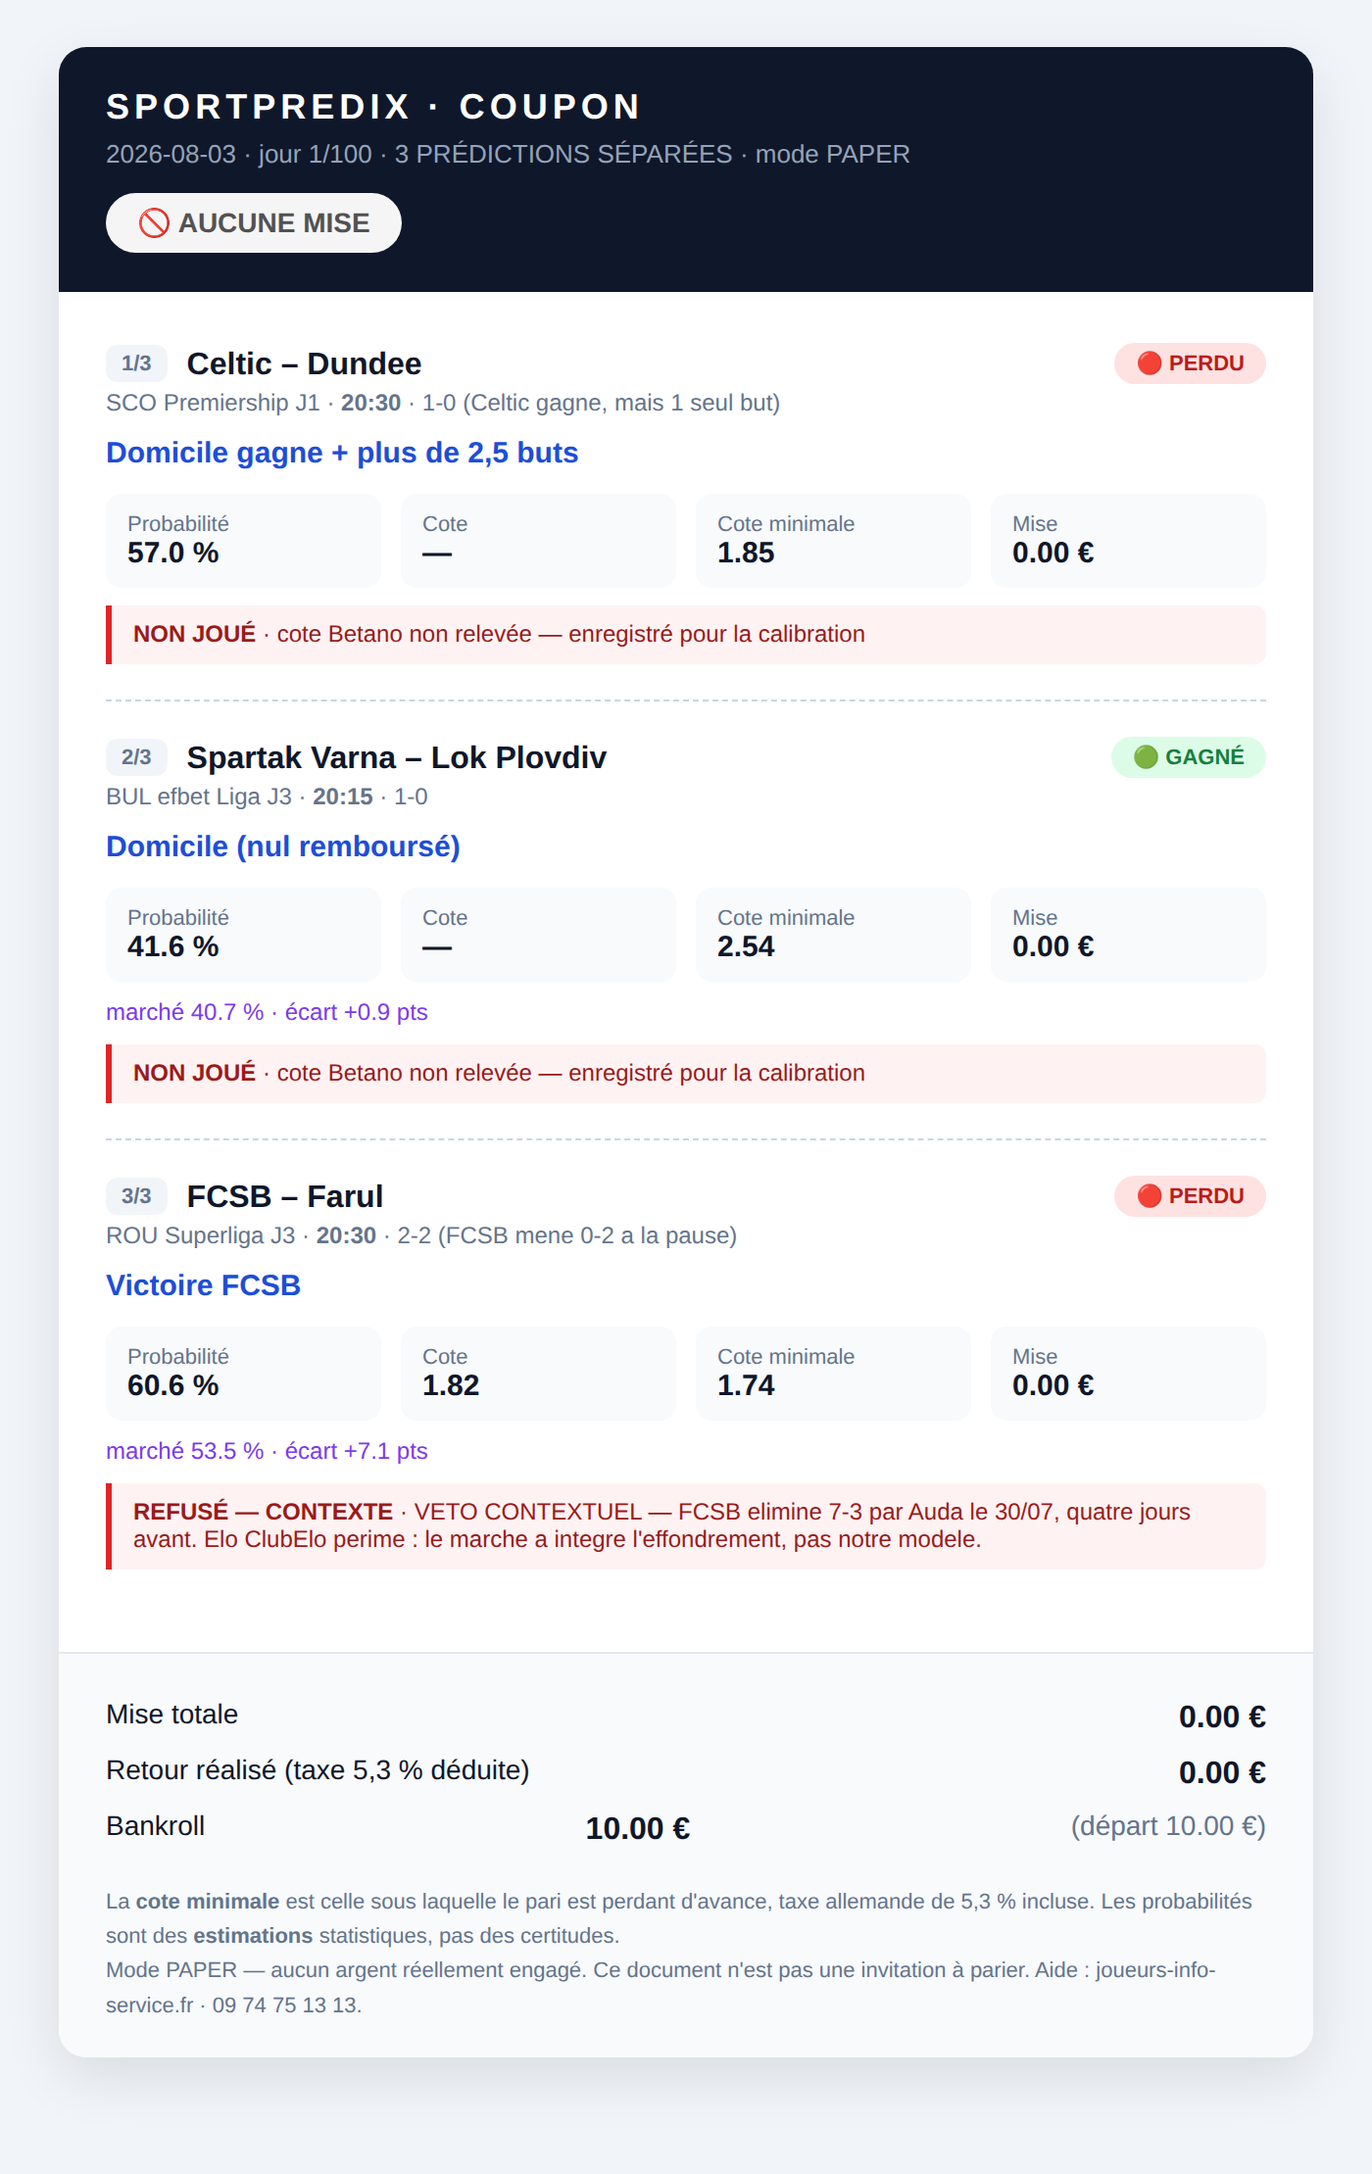
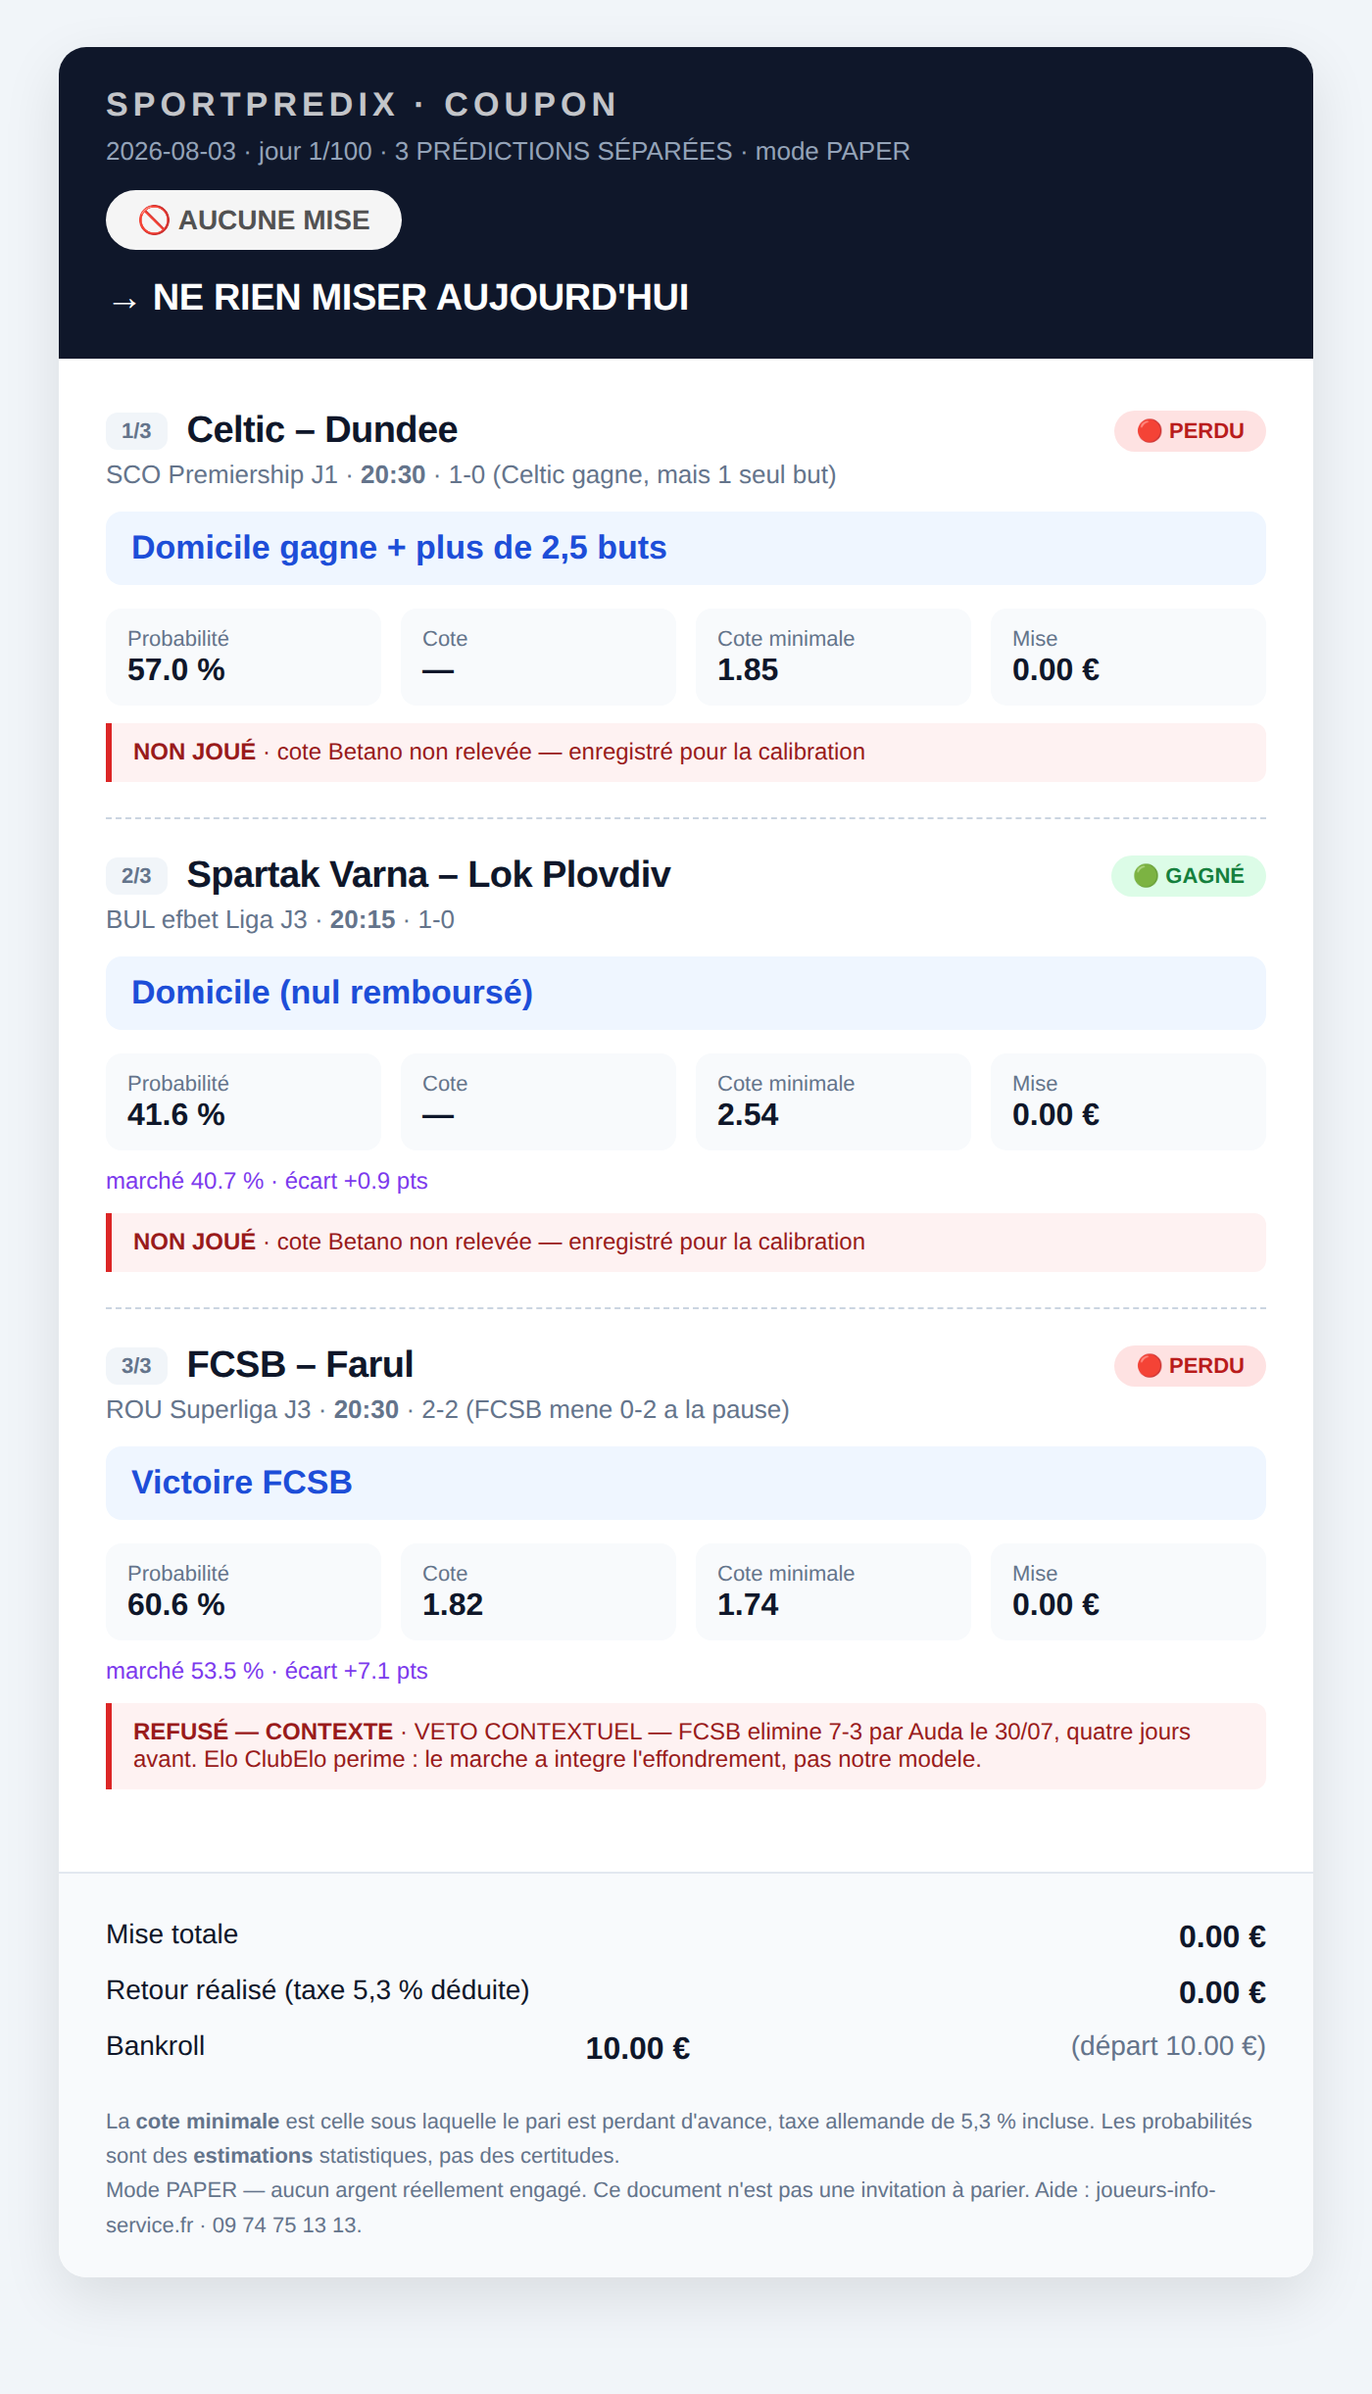
La routine envoie le coupon et rend compte ici
Deux defauts : la routine ecrivait le coupon sur disque et le committait
sans jamais l'envoyer, et le coupon ne repondait pas immediatement a la
seule question qui compte pour le lecteur.

scripts/coupon.py -- ligne d'ACTION en tete du ticket, avant tout le
reste : « NE RIEN MISER AUJOURD'HUI », « MISER 0,30 EUR au total sur
1 pari », « ENCAISSE 0,54 EUR », « PERDU 0,24 EUR ». Le statut seul ne
suffisait pas : savoir qu'un coupon est « EN ATTENTE » ne dit pas quoi
faire. Lisibilite renforcee au passage -- nom du match de 16 a 19 px,
marche parie sur fond colore au lieu d'une simple ligne de texte,
competition et heure plus contrastees.

docs/rendez-vous.md -- ENVOI OBLIGATOIRE ajoute aux deux routines, avec
la raison ecrite noir sur blanc : l'utilisateur ne voit PAS les fichiers
du depot. Le coupon PNG part par SendUserFile en display render, MEME
quand aucune mise n'est possible -- un coupon « ne rien miser » est une
information, et son absence ressemble a une panne.

Ajoute aussi une derniere etape explicite : REPONDRE DANS LA
CONVERSATION, avec la structure attendue (action en clair, un bloc par
prediction, les lignes ecartees avec leur motif, bankroll avant/apres).
Le livrable est la reponse, pas le commit.

Claude-Session: https://claude.ai/code/session_01CEJDhX76Xa2BUgXuhgFFGV

diff --git a/data/coupons/exemple_simple_gagne.html b/data/coupons/exemple_simple_gagne.html
@@ -6,26 +6,29 @@
   .ticket { max-width:640px; margin:0 auto; background:#fff; border-radius:14px;
             box-shadow:0 10px 30px rgba(0,0,0,.10); overflow:hidden; }
   .tete { background:#0f172a; color:#fff; padding:20px 24px; }
-  .tete h1 { margin:0; font-size:18px; letter-spacing:.14em; }
+  .tete h1 { margin:0; font-size:17px; letter-spacing:.15em; opacity:.75; }
   .tete .meta { margin-top:6px; font-size:13px; color:#94a3b8; }
   .statut { display:inline-block; margin-top:12px; padding:7px 16px;
             border-radius:999px; font-weight:700; font-size:14px;
             color:#15803d; background:#dcfce7; }
+  .action { margin-top:14px; font-size:19px; font-weight:750;
+            letter-spacing:-.01em; color:#fff; }
   .corps { padding:8px 24px 24px; }
   .sel { border-bottom:1px dashed #cbd5e1; padding:18px 0; }
   .sel:last-child { border-bottom:none; }
   .sel-tete { display:flex; align-items:center; gap:10px; flex-wrap:wrap; }
   .num { font-size:11px; font-weight:700; color:#64748b; background:#f1f5f9;
          padding:3px 8px; border-radius:6px; }
-  .match { font-weight:700; font-size:16px; flex:1; }
+  .match { font-weight:750; font-size:19px; flex:1; letter-spacing:-.015em; }
   .badge { padding:4px 11px; border-radius:999px; font-size:11px; font-weight:700; }
-  .compet { font-size:12px; color:#64748b; margin-top:3px; }
-  .pari { margin-top:10px; font-size:15px; font-weight:600; color:#1d4ed8; }
+  .compet { font-size:13px; color:#64748b; margin-top:4px; }
+  .pari { margin-top:11px; font-size:17px; font-weight:680; color:#1d4ed8;
+         padding:9px 13px; background:#eff6ff; border-radius:8px; }
   .chiffres { display:grid; grid-template-columns:repeat(auto-fit,minmax(110px,1fr));
               gap:10px; margin-top:12px; }
   .chiffres div { background:#f8fafc; border-radius:8px; padding:9px 11px; }
   .chiffres span { display:block; font-size:11px; color:#64748b; }
-  .chiffres b { font-size:15px; }
+  .chiffres b { font-size:16px; }
   .marche { margin-top:9px; font-size:12px; color:#7c3aed; }
   .refus { margin-top:9px; font-size:12px; background:#fef2f2; color:#991b1b;
            border-left:3px solid #dc2626; padding:8px 11px; border-radius:0 6px 6px 0; }
@@ -43,6 +46,7 @@
   .avis { margin-top:14px; font-size:11px; color:#64748b; line-height:1.6; }
   @media (prefers-color-scheme: dark) {
     body { background:#0b1120; color:#e2e8f0; }
+    .pari { background:#172554; color:#93c5fd; }
     .ticket { background:#111827; }
     .chiffres div, .pied { background:#1e293b; }
     .num { background:#1e293b; color:#94a3b8; }
@@ -58,6 +62,7 @@
     <h1>SPORTPREDIX · COUPON</h1>
     <div class="meta">2026-09-14 · jour 43/100 · SIMPLE · mode PAPER</div>
     <div class="statut">🟢 GAGNÉ</div>
+    <div class="action">→ ENCAISSÉ 0.54 €  (mise 0.28 €)</div>
   </div>
   <div class="corps">
     
@@ -68,6 +73,7 @@
         <span class="badge" style="color:#15803d;background:#dcfce7">🟢 GAGNÉ</span>
       </div>
       <div class="compet">DEN Superliga J8
+        
         · 2-1</div>
       <div class="pari">Odense (nul remboursé)</div>
       <div class="chiffres">

diff --git a/data/coupons/coupon_2026-08-03.html b/data/coupons/coupon_2026-08-03.html
@@ -6,26 +6,29 @@
   .ticket { max-width:640px; margin:0 auto; background:#fff; border-radius:14px;
             box-shadow:0 10px 30px rgba(0,0,0,.10); overflow:hidden; }
   .tete { background:#0f172a; color:#fff; padding:20px 24px; }
-  .tete h1 { margin:0; font-size:18px; letter-spacing:.14em; }
+  .tete h1 { margin:0; font-size:17px; letter-spacing:.15em; opacity:.75; }
   .tete .meta { margin-top:6px; font-size:13px; color:#94a3b8; }
   .statut { display:inline-block; margin-top:12px; padding:7px 16px;
             border-radius:999px; font-weight:700; font-size:14px;
             color:#525252; background:#f5f5f5; }
+  .action { margin-top:14px; font-size:19px; font-weight:750;
+            letter-spacing:-.01em; color:#fff; }
   .corps { padding:8px 24px 24px; }
   .sel { border-bottom:1px dashed #cbd5e1; padding:18px 0; }
   .sel:last-child { border-bottom:none; }
   .sel-tete { display:flex; align-items:center; gap:10px; flex-wrap:wrap; }
   .num { font-size:11px; font-weight:700; color:#64748b; background:#f1f5f9;
          padding:3px 8px; border-radius:6px; }
-  .match { font-weight:700; font-size:16px; flex:1; }
+  .match { font-weight:750; font-size:19px; flex:1; letter-spacing:-.015em; }
   .badge { padding:4px 11px; border-radius:999px; font-size:11px; font-weight:700; }
-  .compet { font-size:12px; color:#64748b; margin-top:3px; }
-  .pari { margin-top:10px; font-size:15px; font-weight:600; color:#1d4ed8; }
+  .compet { font-size:13px; color:#64748b; margin-top:4px; }
+  .pari { margin-top:11px; font-size:17px; font-weight:680; color:#1d4ed8;
+         padding:9px 13px; background:#eff6ff; border-radius:8px; }
   .chiffres { display:grid; grid-template-columns:repeat(auto-fit,minmax(110px,1fr));
               gap:10px; margin-top:12px; }
   .chiffres div { background:#f8fafc; border-radius:8px; padding:9px 11px; }
   .chiffres span { display:block; font-size:11px; color:#64748b; }
-  .chiffres b { font-size:15px; }
+  .chiffres b { font-size:16px; }
   .marche { margin-top:9px; font-size:12px; color:#7c3aed; }
   .refus { margin-top:9px; font-size:12px; background:#fef2f2; color:#991b1b;
            border-left:3px solid #dc2626; padding:8px 11px; border-radius:0 6px 6px 0; }
@@ -43,6 +46,7 @@
   .avis { margin-top:14px; font-size:11px; color:#64748b; line-height:1.6; }
   @media (prefers-color-scheme: dark) {
     body { background:#0b1120; color:#e2e8f0; }
+    .pari { background:#172554; color:#93c5fd; }
     .ticket { background:#111827; }
     .chiffres div, .pied { background:#1e293b; }
     .num { background:#1e293b; color:#94a3b8; }
@@ -58,6 +62,7 @@
     <h1>SPORTPREDIX · COUPON</h1>
     <div class="meta">2026-08-03 · jour 1/100 · 3 PRÉDICTIONS SÉPARÉES · mode PAPER</div>
     <div class="statut">🚫 AUCUNE MISE</div>
+    <div class="action">→ NE RIEN MISER AUJOURD'HUI</div>
   </div>
   <div class="corps">
     

diff --git a/scripts/coupon.py b/scripts/coupon.py
@@ -131,6 +131,21 @@ def rendu(st: dict, sels: list[dict], date: str, combine: bool) -> str:
         else:
             gain = sum(s.get("payout", 0.0) for s in joues)
 
+    # La ligne d'ACTION répond en un coup d'œil à la seule question qui
+    # compte pour le lecteur : est-ce que je mise, et combien ?
+    if not joues:
+        action = "→ NE RIEN MISER AUJOURD'HUI"
+    elif lib == "EN ATTENTE":
+        action = (f"→ MISER {mise:.2f} €" +
+                  (f" sur le combiné" if combine and len(joues) > 1
+                   else f" au total sur {len(joues)} pari(s)"))
+    elif lib == "GAGNÉ":
+        action = f"→ ENCAISSÉ {gain:.2f} €  (mise {mise:.2f} €)"
+    elif lib == "PERDU":
+        action = f"→ PERDU {mise:.2f} €"
+    else:
+        action = f"→ MISE RENDUE {mise:.2f} €"
+
     d0 = datetime.date.fromisoformat(st["start"])
     jour = (datetime.date.fromisoformat(date) - d0).days + 1
 
@@ -142,26 +157,29 @@ def rendu(st: dict, sels: list[dict], date: str, combine: bool) -> str:
   .ticket {{ max-width:640px; margin:0 auto; background:#fff; border-radius:14px;
             box-shadow:0 10px 30px rgba(0,0,0,.10); overflow:hidden; }}
   .tete {{ background:#0f172a; color:#fff; padding:20px 24px; }}
-  .tete h1 {{ margin:0; font-size:18px; letter-spacing:.14em; }}
+  .tete h1 {{ margin:0; font-size:17px; letter-spacing:.15em; opacity:.75; }}
   .tete .meta {{ margin-top:6px; font-size:13px; color:#94a3b8; }}
   .statut {{ display:inline-block; margin-top:12px; padding:7px 16px;
             border-radius:999px; font-weight:700; font-size:14px;
             color:{coul}; background:{fond}; }}
+  .action {{ margin-top:14px; font-size:19px; font-weight:750;
+            letter-spacing:-.01em; color:#fff; }}
   .corps {{ padding:8px 24px 24px; }}
   .sel {{ border-bottom:1px dashed #cbd5e1; padding:18px 0; }}
   .sel:last-child {{ border-bottom:none; }}
   .sel-tete {{ display:flex; align-items:center; gap:10px; flex-wrap:wrap; }}
   .num {{ font-size:11px; font-weight:700; color:#64748b; background:#f1f5f9;
          padding:3px 8px; border-radius:6px; }}
-  .match {{ font-weight:700; font-size:16px; flex:1; }}
+  .match {{ font-weight:750; font-size:19px; flex:1; letter-spacing:-.015em; }}
   .badge {{ padding:4px 11px; border-radius:999px; font-size:11px; font-weight:700; }}
-  .compet {{ font-size:12px; color:#64748b; margin-top:3px; }}
-  .pari {{ margin-top:10px; font-size:15px; font-weight:600; color:#1d4ed8; }}
+  .compet {{ font-size:13px; color:#64748b; margin-top:4px; }}
+  .pari {{ margin-top:11px; font-size:17px; font-weight:680; color:#1d4ed8;
+         padding:9px 13px; background:#eff6ff; border-radius:8px; }}
   .chiffres {{ display:grid; grid-template-columns:repeat(auto-fit,minmax(110px,1fr));
               gap:10px; margin-top:12px; }}
   .chiffres div {{ background:#f8fafc; border-radius:8px; padding:9px 11px; }}
   .chiffres span {{ display:block; font-size:11px; color:#64748b; }}
-  .chiffres b {{ font-size:15px; }}
+  .chiffres b {{ font-size:16px; }}
   .marche {{ margin-top:9px; font-size:12px; color:#7c3aed; }}
   .refus {{ margin-top:9px; font-size:12px; background:#fef2f2; color:#991b1b;
            border-left:3px solid #dc2626; padding:8px 11px; border-radius:0 6px 6px 0; }}
@@ -179,6 +197,7 @@ def rendu(st: dict, sels: list[dict], date: str, combine: bool) -> str:
   .avis {{ margin-top:14px; font-size:11px; color:#64748b; line-height:1.6; }}
   @media (prefers-color-scheme: dark) {{
     body {{ background:#0b1120; color:#e2e8f0; }}
+    .pari {{ background:#172554; color:#93c5fd; }}
     .ticket {{ background:#111827; }}
     .chiffres div, .pied {{ background:#1e293b; }}
     .num {{ background:#1e293b; color:#94a3b8; }}
@@ -194,6 +213,7 @@ def rendu(st: dict, sels: list[dict], date: str, combine: bool) -> str:
     <h1>SPORTPREDIX · COUPON</h1>
     <div class="meta">{date} · jour {jour}/100 · {type_txt} · mode PAPER</div>
     <div class="statut">{ico} {lib}</div>
+    <div class="action">{action}</div>
   </div>
   <div class="corps">
     {''.join(ligne_html(s, i, n) for i, s in enumerate(sels, 1))}

diff --git a/docs/rendez-vous.md b/docs/rendez-vous.md
@@ -71,12 +71,27 @@
    Mise calculée automatiquement : Kelly 1/5, taxe, plafond 5 %, minimum opérateur.
 
 9) COUPON : `PYTHONPATH=src python3 scripts/coupon.py --date <DEMAIN>`
-   Produit le HTML et le PNG partageable. Ne PAS utiliser --combine sauf demande.
+   Produit data/coupons/coupon_<DEMAIN>.html ET .png. Ne PAS utiliser --combine
+   sauf demande explicite.
 
-10) commit + push sur la branche.
-11) Résume : jour N/100, chaque prédiction avec proba, écart au marché, cote, seuil,
-    MISE ou « non jouable » + raison, et la bankroll. ESTIMATIONS, pas des certitudes.
-    Pas d'incitation à miser ; jamais un match déjà commencé.
+10) ⚠ ENVOI OBLIGATOIRE — l'utilisateur ne voit PAS les fichiers du dépôt.
+    SendUserFile({ files:["data/coupons/coupon_<DEMAIN>.png"], display:"render",
+                   status:"proactive",
+                   caption:"Coupon du <DEMAIN> — <ACTION> · bankroll <X,XX> €" })
+    À faire MÊME si aucune mise n'est possible : un coupon « NE RIEN MISER » est
+    une information, et son absence ressemble à une panne.
+
+11) commit + push sur la branche.
+
+12) RÉPONDRE DANS LA CONVERSATION — c'est le livrable, pas le commit. Structure :
+    • titre : jour N/100, date, et l'ACTION en clair (miser X € / ne rien miser)
+    • un bloc par prédiction : match, heure locale, marché, probabilité, cote,
+      cote minimale, écart au marché, MISE ou raison du refus
+    • les lignes ÉCARTÉES avec leur motif (fixture, veto contexte, seuil)
+    • bankroll avant → après
+    • ce qui a été appris ou constaté d'inhabituel
+    ESTIMATIONS, pas des certitudes. Pas d'incitation à miser ; jamais un match
+    déjà commencé. Si rien n'est jouable, le dire franchement en une phrase.
 ```
 
 ## ⚖ 08h00 — vérification des résultats de la veille
@@ -101,12 +116,23 @@
    au format ```rule``` machine quand c'est une règle dure/douce. Vérifie avec
    `python3 scripts/lessons_rules.py` qu'elle n'est pas orpheline.
 6) COUPON : `PYTHONPATH=src python3 scripts/coupon.py --date <date des matchs réglés>`
-   MÊME commande qu'à 20h : le statut du coupon passe de ⏳ à 🟢/🔴 avec les scores,
-   HTML et PNG régénérés au même emplacement.
-7) `PYTHONPATH=src python3 scripts/protocol.py report` — commit + push.
-8) Résume : chaque résultat 🟢/🔴/⚪ avec le score, la bankroll, le bilan jour N/100,
-   la CALIBRATION (écart entre probabilité annoncée et réussite réelle) et la section
-   FACE AU MARCHÉ (sur les désaccords ≥3 points, le modèle a-t-il eu raison ?).
+   MÊME commande qu'à 20h : le statut passe de ⏳ à 🟢/🔴 avec les scores, HTML et
+   PNG régénérés au même emplacement.
+
+7) ⚠ ENVOI OBLIGATOIRE du coupon réglé :
+   SendUserFile({ files:["data/coupons/coupon_<date>.png"], display:"render",
+                  status:"proactive",
+                  caption:"Résultats du <date> — <N> 🟢 / <N> 🔴 · bankroll <X,XX> €" })
+
+8) `PYTHONPATH=src python3 scripts/protocol.py report` — commit + push.
+
+9) RÉPONDRE DANS LA CONVERSATION :
+   • chaque résultat 🟢/🔴/⚪ avec le score réel et la source
+   • bankroll avant → après, et le bilan jour N/100
+   • la CALIBRATION (écart entre probabilité annoncée et réussite réelle)
+   • la section FACE AU MARCHÉ (sur les désaccords ≥3 points, le modèle a-t-il
+     eu raison ?)
+   • pour chaque perte : le modèle avait-il tort, ou était-ce la variance annoncée ?
    Factuel, sans complaisance.
 ```
 
